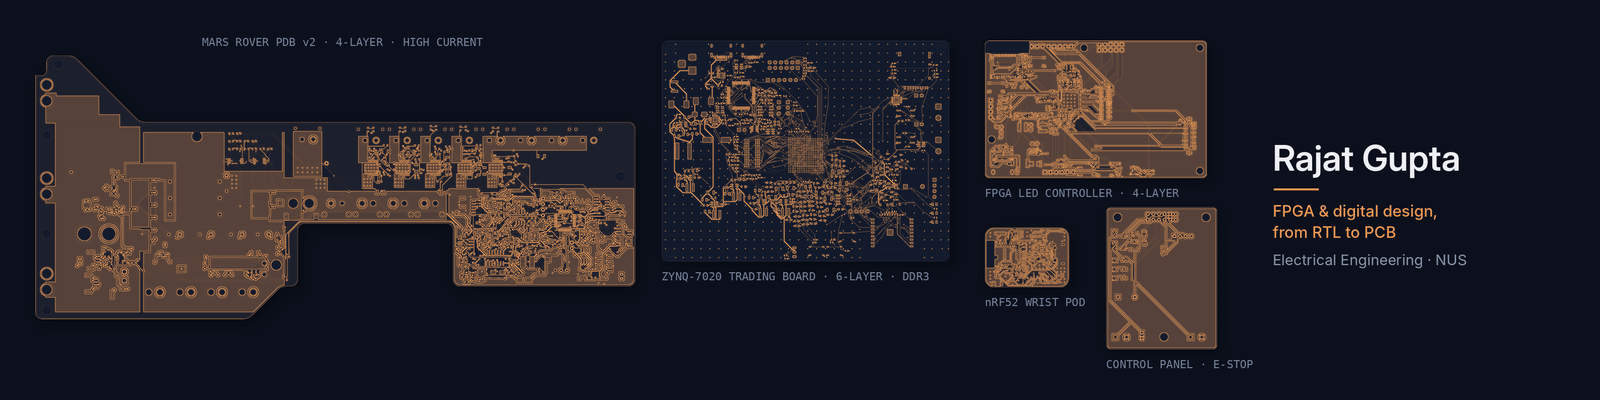
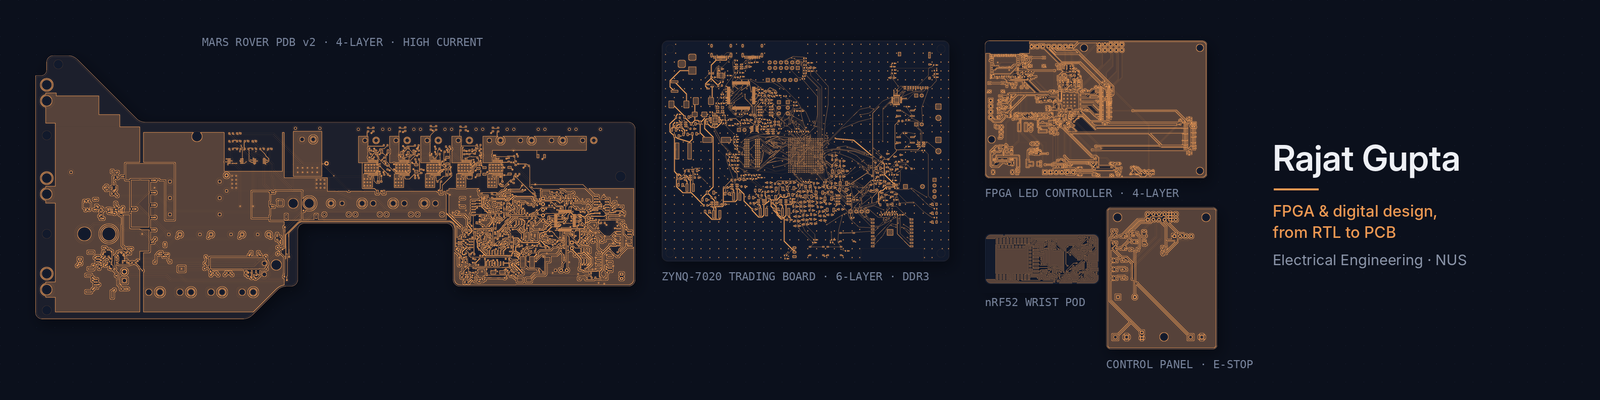
Lift tracker card: pod v2 built, new board art

Changed region(s): [[0.5938, 0.57, 0.6875, 0.72]]

diff --git a/README.md b/README.md
@@ -46,11 +46,11 @@ My own 4-layer board (Gowin GW2AR-18 FPGA + ESP32-C3) that lights a room in time
 <a href="https://github.com/silverajat/lift-tracker"><img src="card_pod.png" alt="nRF52840 wrist pod board copper layers"></a>
 
 **Lift tracker wearable**<br>
-Wrist motion-sensor pod and Android app that count gym reps in real time.
+Fitbit-sized wrist pod and Android app that count gym reps live, grade each rep's range of motion and end the set on their own.
 
-- **32 of 33** recorded sets counted exactly, all within one rep
+- **32 of 33** recorded sets counted exactly on the prototype, all within one rep
 - Kotlin pipeline checked against a Python reference model in CI
-- Custom 4-layer nRF52840 + BMI270 pod board · arriving soon
+- My own 4-layer nRF52840 + LSM6DSV16X board, 0.55 mm thinner than a Fitbit Air · **built, in daily use**
 </td>
 </tr>
 </table>
